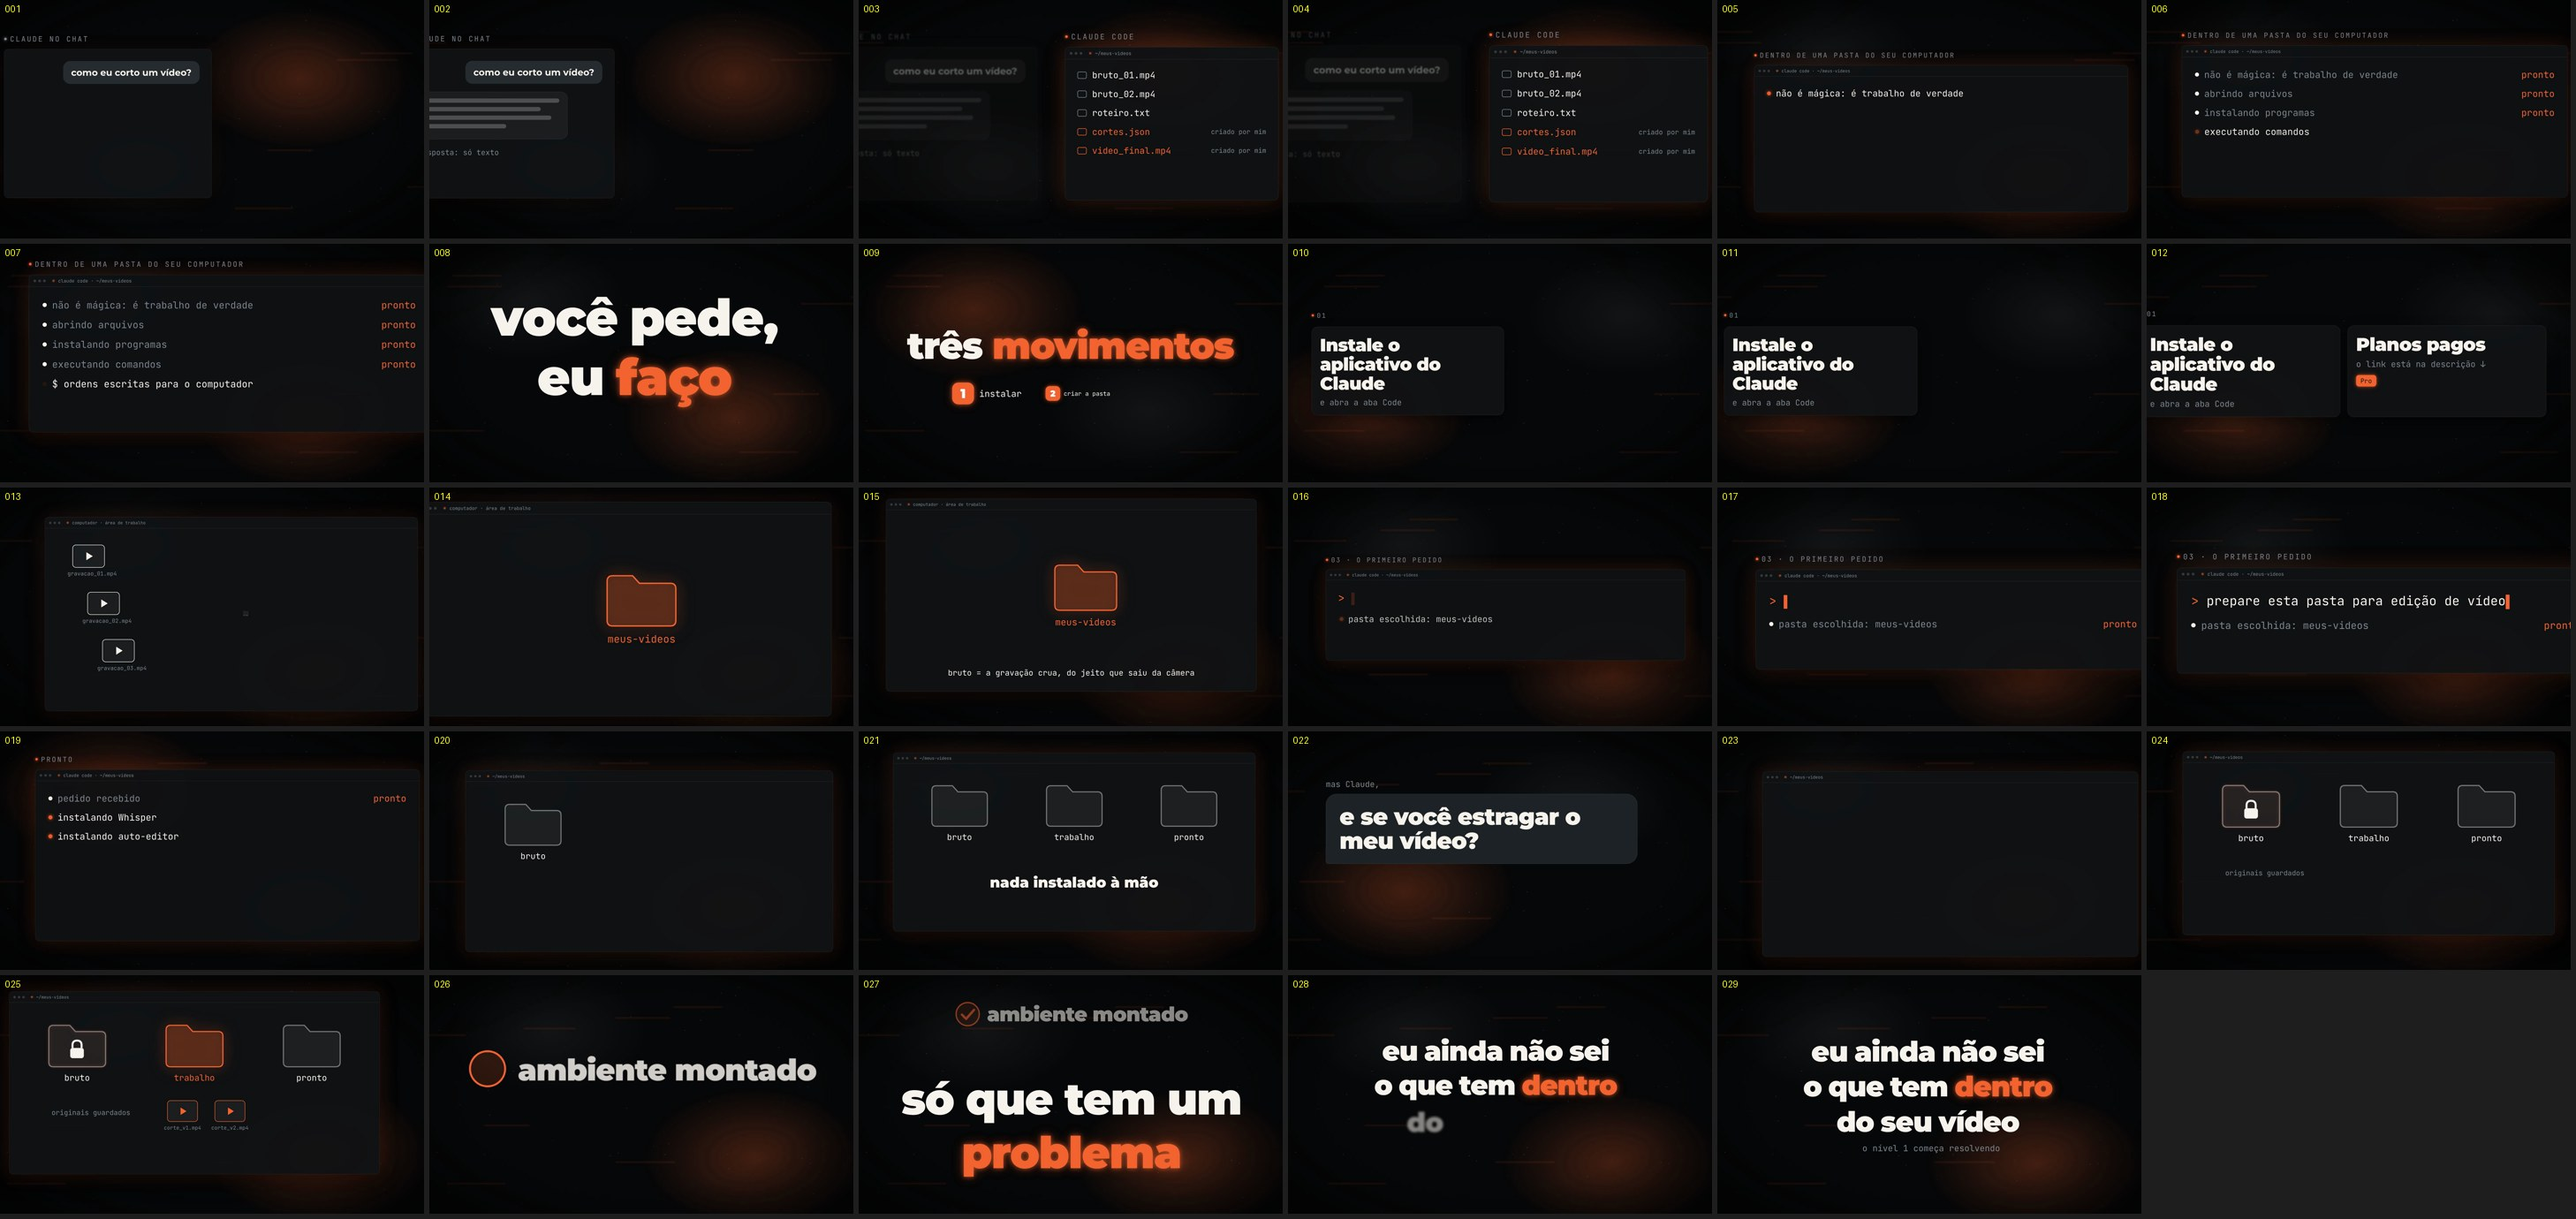
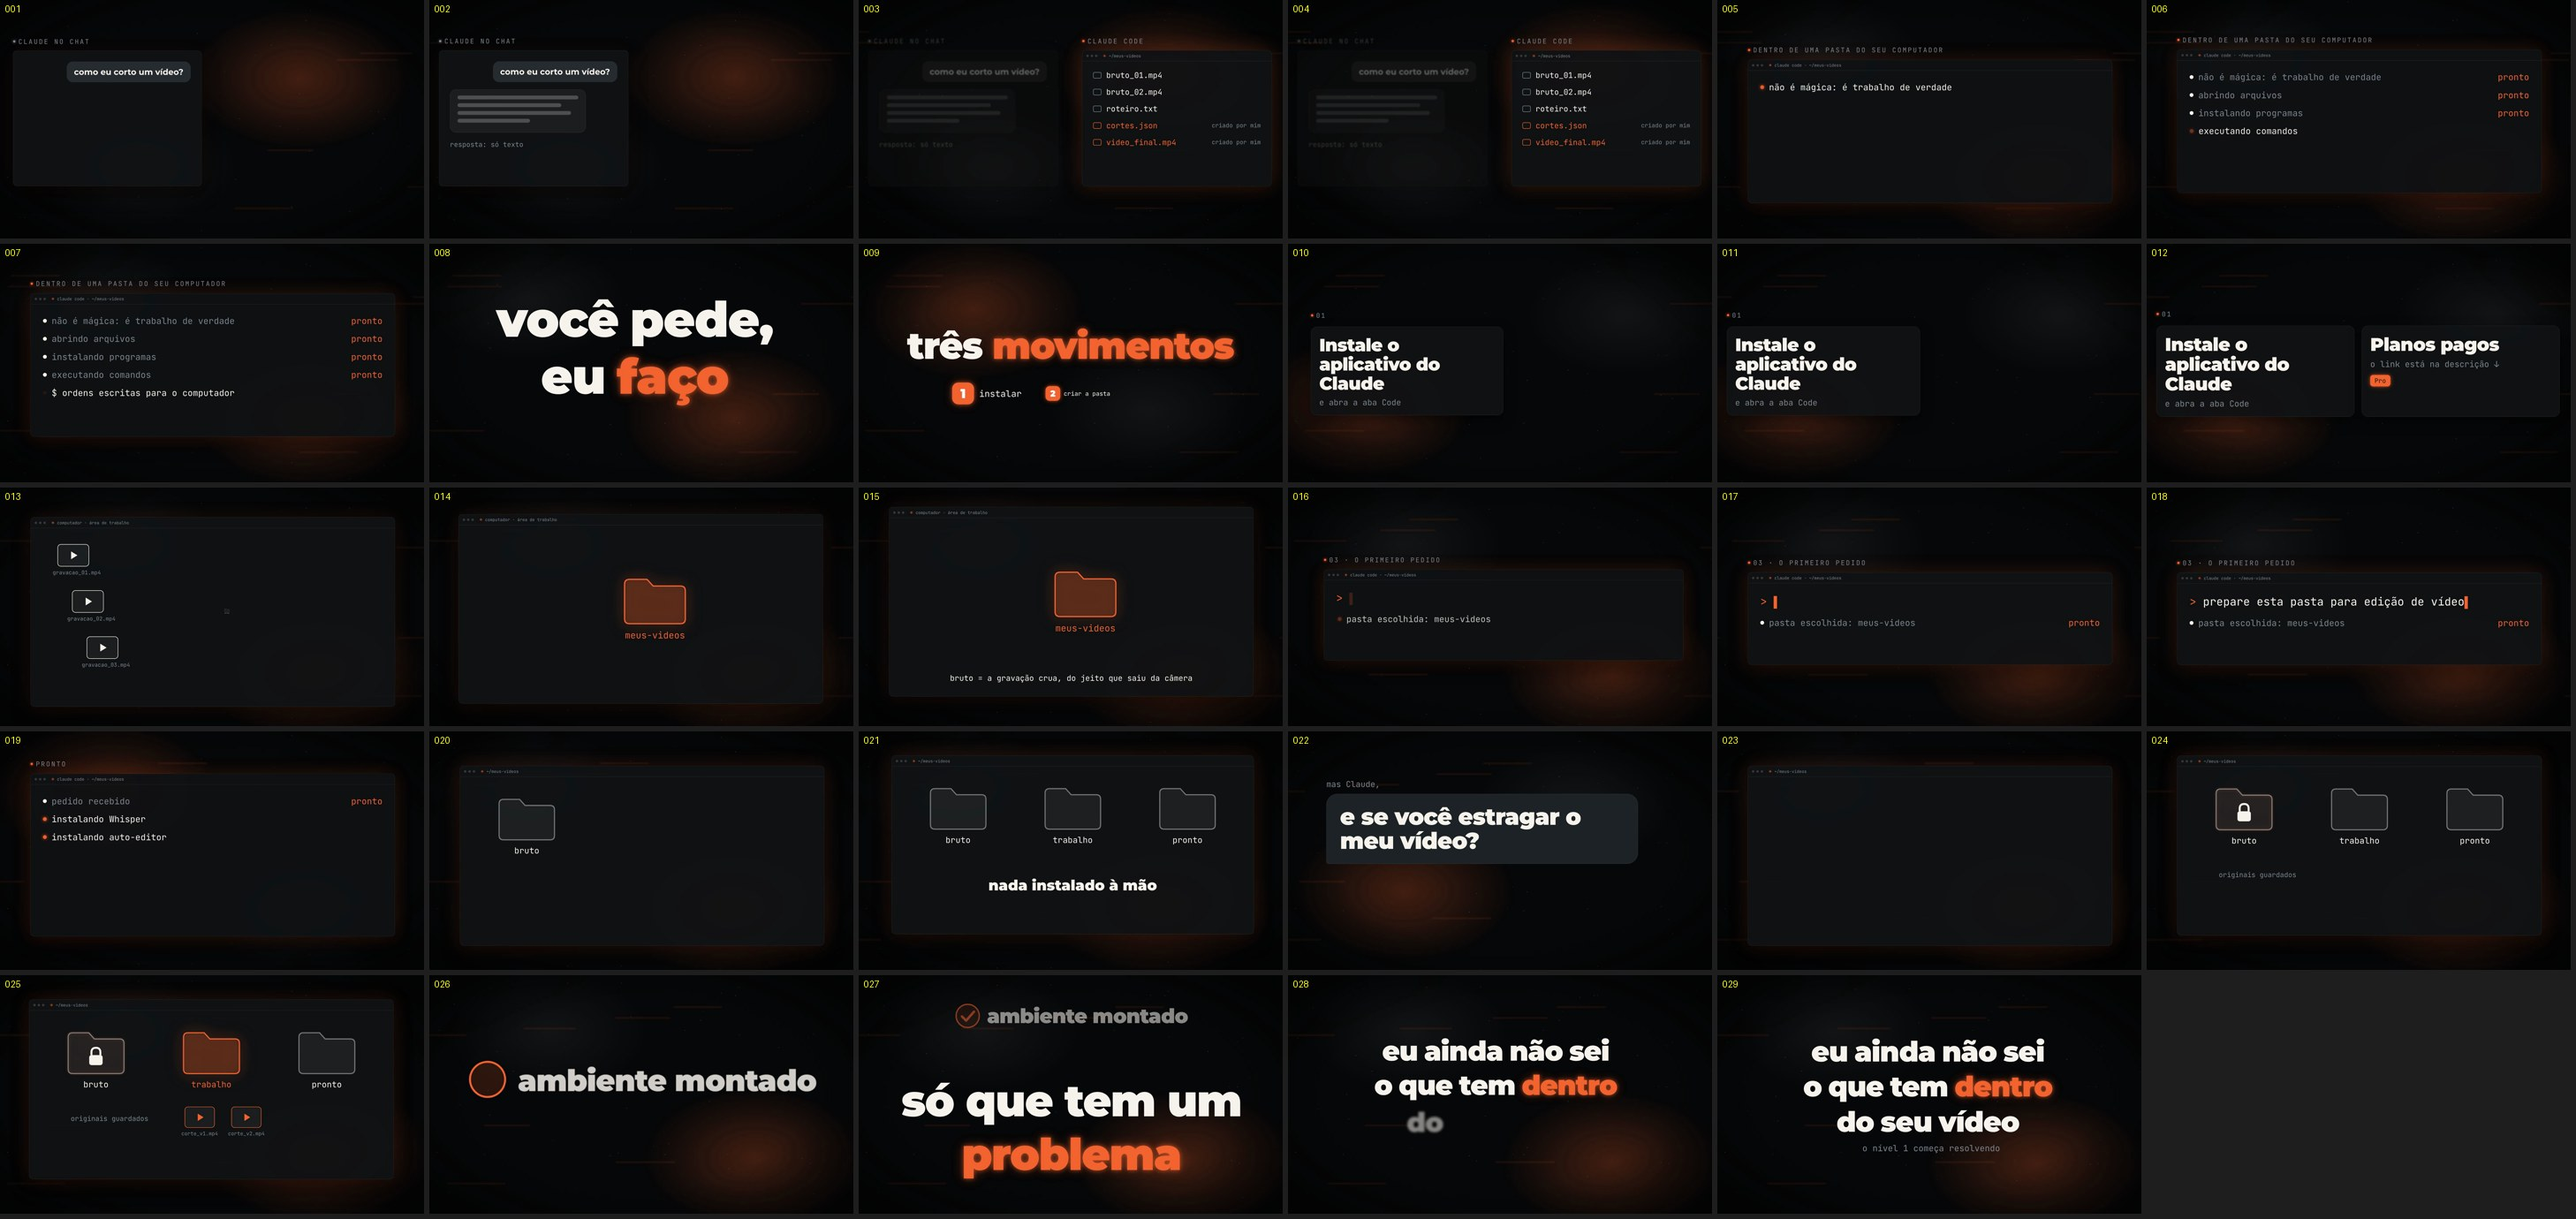
Vídeo versão 4 montado: folhas finais, chat e regra 2 ajustados
Claude-Session: https://claude.ai/code/session_01Vzt37Nfesv3FfTUpMH7K9L

diff --git a/video-claude-editor/src/motor/planosF.tsx b/video-claude-editor/src/motor/planosF.tsx
@@ -481,7 +481,7 @@ export const PRegra: P<{n: number; palavra: string; tipo: 'aprove' | 'partes' | 
     <AbsoluteFill>
       <div style={{position: 'absolute', left: 150, top: 150, fontFamily: SANS, fontWeight: 900, fontSize: 560, lineHeight: 0.9, color: 'rgba(242,98,46,0.16)', transform: `scale(${Math.max(0.001, mola(c.f, 0, {damping: 12}))})`, transformOrigin: 'left top'}}>{n}</div>
       <Etiqueta style={{position: 'absolute', left: 430, top: 200, opacity: ap(c.f, 0)}}>REGRA {n}</Etiqueta>
-      <div style={{position: 'absolute', left: 424, top: 250, fontFamily: SANS, fontWeight: 900, fontSize: tipo === 'partes' ? 150 : 210, letterSpacing: -5, lineHeight: 1, color: C.acento, textShadow: brilho(C.acento, 1), transform: `scale(${Math.max(0.001, peso)})`, transformOrigin: 'left center', whiteSpace: 'nowrap'}}>{palavra}</div>
+      <div style={{position: 'absolute', left: 424, top: 250, fontFamily: SANS, fontWeight: 900, fontSize: tipo === 'partes' ? 124 : 210, letterSpacing: -5, lineHeight: 1, color: C.acento, textShadow: brilho(C.acento, 1), transform: `scale(${Math.max(0.001, peso)})`, transformOrigin: 'left center', whiteSpace: 'nowrap'}}>{palavra}</div>
       <div style={{position: 'absolute', left: 430, right: 150, top: 520}}>
         {tipo === 'aprove' ? (
           <>

diff --git a/video-claude-editor/src/motor/planosA.tsx b/video-claude-editor/src/motor/planosA.tsx
@@ -126,7 +126,7 @@ export const PComparar: P<{chatEm: number; codeEm: number}> = ({c, chatEm, codeE
   const resp = ap(c.f, c.p('respondo') || c.t(chatEm) + 44);
   const arquivos = ['bruto_01.mp4', 'bruto_02.mp4', 'roteiro.txt', 'cortes.json', 'video_final.mp4'];
   return (
-    <AbsoluteFill style={{transform: 'scale(1.1) translateY(30px)'}}>
+    <AbsoluteFill style={{transform: 'translateY(10px)'}}>
       <div style={{position: 'absolute', left: 130, top: 190, width: 780, ...surge(a), opacity: a * (1 - troca * 0.62), filter: troca > 0.05 ? `saturate(${1 - troca}) blur(${troca * 2}px)` : undefined}}>
         <Etiqueta cor={C.mudo} style={{marginBottom: 20}}>CLAUDE NO CHAT</Etiqueta>
         <Janela style={{position: 'relative', width: 780, height: 560}} luz={0.3}>

diff --git a/video-claude-editor/PLANO.md b/video-claude-editor/PLANO.md
@@ -1,6 +1,6 @@
 # PLANO: vídeo "O Claude editou este vídeo sozinho"
 
-Situação: vídeo versão 2 (roteiro versão 3) entregue. Roteiro versão 4 escrito e voz-guia gerada. MAPA-VIDEO.md (plano de edição da versão 4) aguardando aprovação.
+Situação: vídeo versão 4 (roteiro de três níveis) entregue em 23/11/2026, com 8:19. Aguardando o Cristian detalhar os erros que viu.
 
 ## 1. Objetivo
 

diff --git a/video-claude-editor/MAPA-VIDEO.md b/video-claude-editor/MAPA-VIDEO.md
@@ -1,6 +1,6 @@
 # MAPA DO VÍDEO: plano de edição do roteiro versão 4
 
-Situação: aguardando aprovação do Cristian. Nenhuma cena foi mexida ainda. O plano da versão 3 ficou guardado em MAPA-VIDEO-v3.md.
+Situação: aprovado pelo Cristian e executado. Vídeo versão 4 entregue em 23/11/2026. O plano da versão 3 ficou guardado em MAPA-VIDEO-v3.md.
 
 ## Objetivo
 
